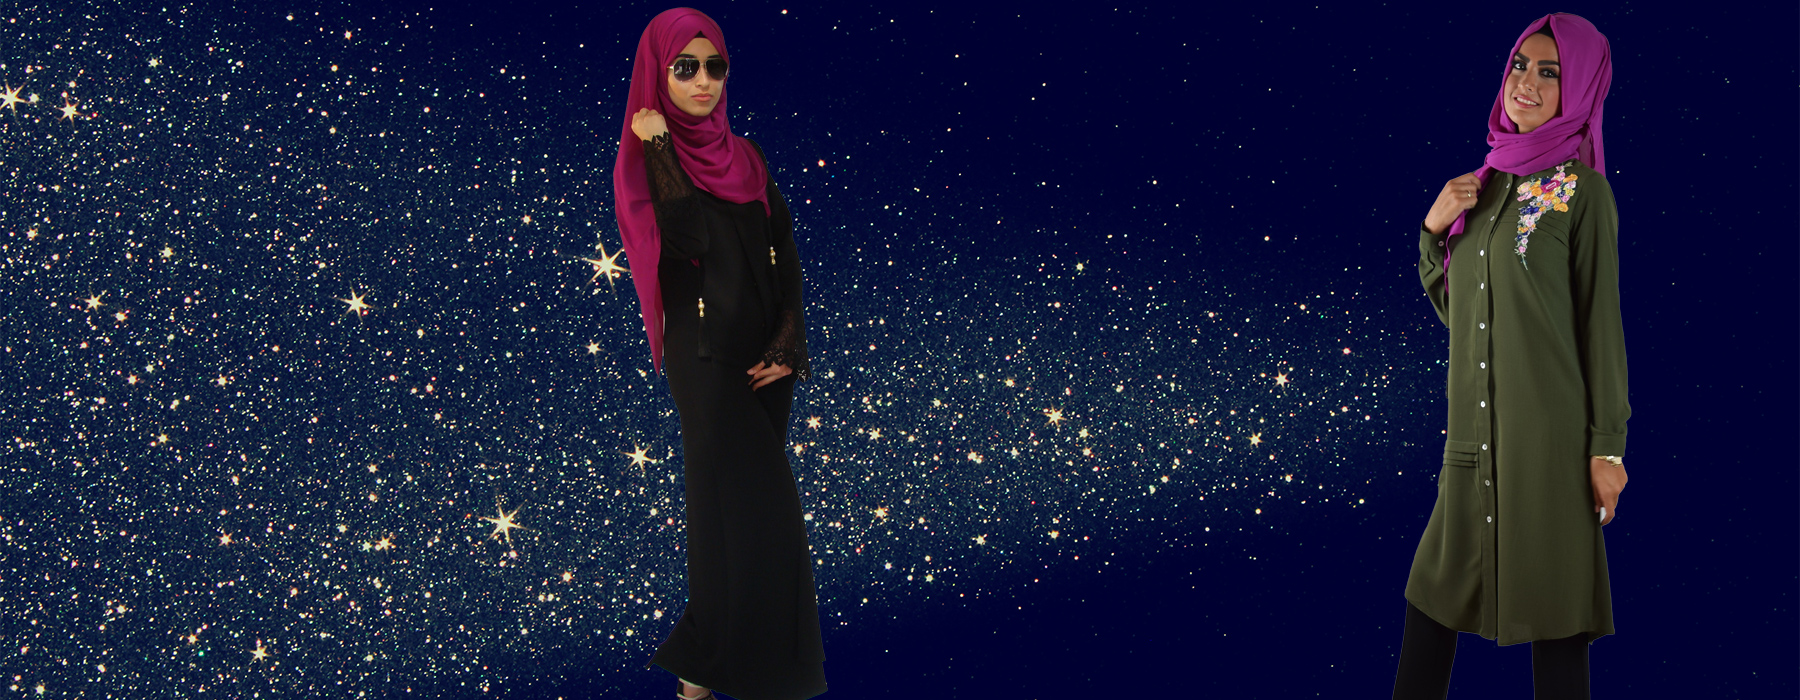
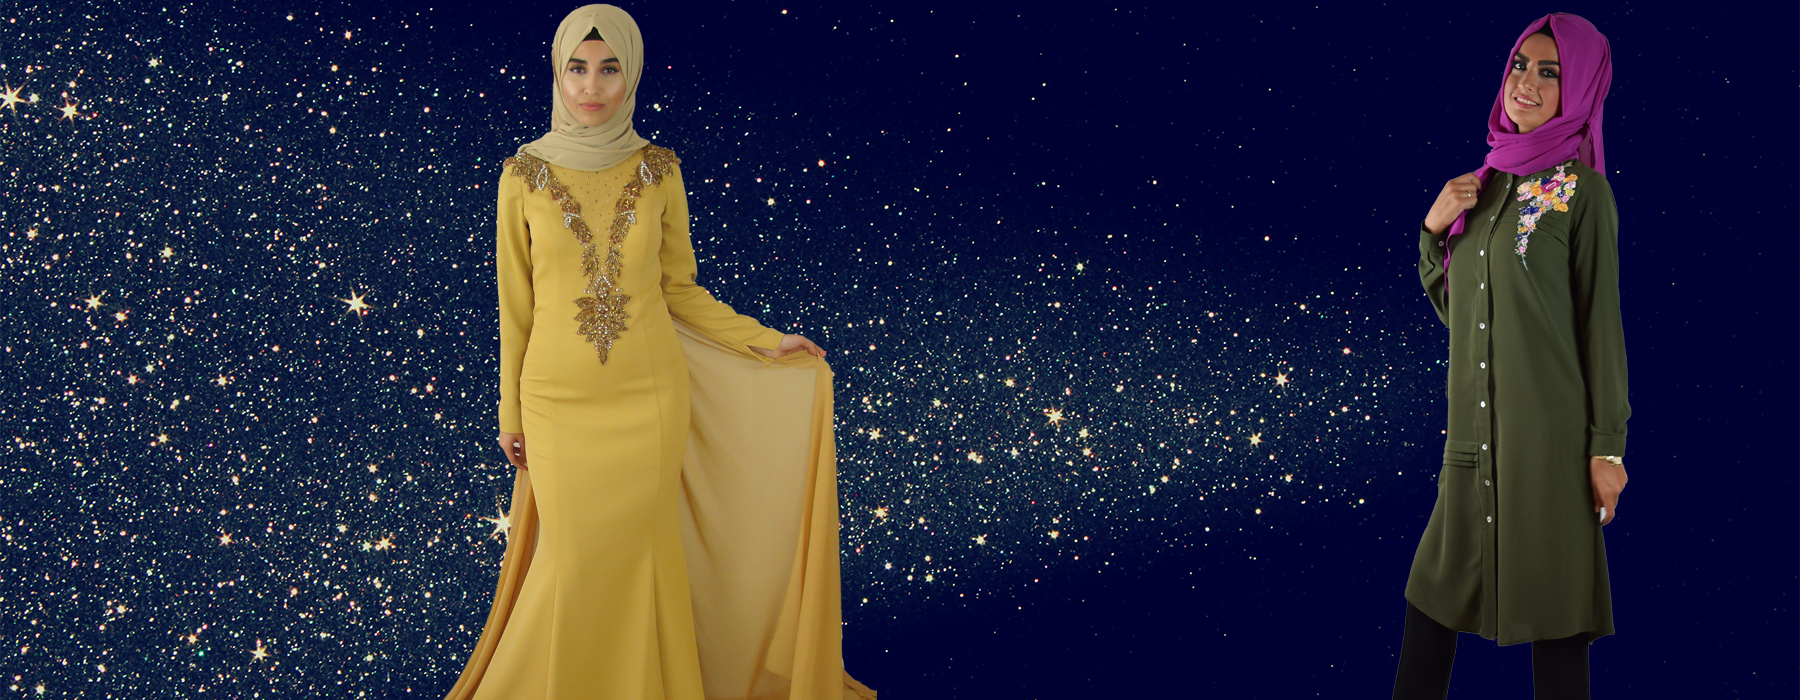
update sliderpics

Changed region(s): [[0.2489, 0.0, 0.4978, 1.0]]

diff --git a/_includes/slideshow.html b/_includes/slideshow.html
@@ -3,9 +3,9 @@
             <div class="tp-banner-container">
                 <div class="tp-banner" >
                     <ul class="list-unstyled">	<!-- SLIDE  -->
-                        <li data-transition="fade" data-slotamount="7" data-masterspeed="200" data-thumb="img/preview/slider/slider-test.jpg" data-delay="10000"  data-saveperformance="on"  data-title="Ken Burns Slide">
+                        <li data-transition="fade" data-slotamount="7" data-masterspeed="200" data-thumb="img/preview/slider/sliderpic5.jpg" data-delay="10000"  data-saveperformance="on"  data-title="Ken Burns Slide">
                             <!-- MAIN IMAGE -->
-                            <img src="img/preview/slider/slider-test.jpg"  alt="Bahar Boutique Slider 1"  data-bgposition="right top" data-kenburns="on" data-duration="12000" data-ease="Power0.easeInOut" data-bgfit="115" data-bgfitend="100" data-bgpositionend="center center">
+                            <img src="img/preview/slider/sliderpic5.jpg" href="http://baharboutique.com/tunik.html" alt="Bahar Boutique Slider 1"  data-bgposition="right top" data-kenburns="on" data-duration="12000" data-ease="Power0.easeInOut" data-bgfit="115" data-bgfitend="100" data-bgpositionend="center center">
                             <!-- LAYERS -->
                             <!-- LAYER NR. 1 -->
                             <div class="tp-caption active_heavy_100 skewfromleftshort fadeout tp-resizeme rs-parallaxlevel-10"
@@ -53,7 +53,7 @@
                       
                         <li data-transition="fade" data-slotamount="7" data-masterspeed="200" data-thumb="img/preview/slider/sliderpic4.jpg" data-delay="10000"  data-saveperformance="on"  data-title="Ken Burns Slide">
                             <!-- MAIN IMAGE -->
-                            <img src="img/preview/slider/sliderpic4.jpg"  alt="Bahar Boutique Slider 2"  data-bgposition="right top" data-kenburns="on" data-duration="12000" data-ease="Power0.easeInOut" data-bgfit="115" data-bgfitend="100" data-bgpositionend="center center">
+                            <img src="img/preview/slider/sliderpic4.jpg" href="http://baharboutique.com/kleider.html"  alt="Bahar Boutique Slider 2"  data-bgposition="right top" data-kenburns="on" data-duration="12000" data-ease="Power0.easeInOut" data-bgfit="115" data-bgfitend="100" data-bgpositionend="center center">
                             <!-- LAYERS -->
                             <!-- LAYER NR. 1 -->
                             <div class="tp-caption active_heavy_100 skewfromleftshort fadeout tp-resizeme rs-parallaxlevel-10"
@@ -66,7 +66,7 @@
                                  data-splitout="none"
                                  data-elementdelay="0.1"
                                  data-endelementdelay="0.1"
-                                 data-endspeed="300">ERÖFFNUNGS-RABATT
+                                 data-endspeed="300">
                             </div>
 
                             <!-- LAYER NR. 2 -->
@@ -80,7 +80,7 @@
                                  data-splitout="none"
                                  data-elementdelay="0.1"
                                  data-endelementdelay="0.1"
-                                 data-endspeed="300"> jetzt auf JEDE Bestellung 15% !
+                                 data-endspeed="300">
                             </div>
 
                             <!-- LAYER NR. 2 -->
